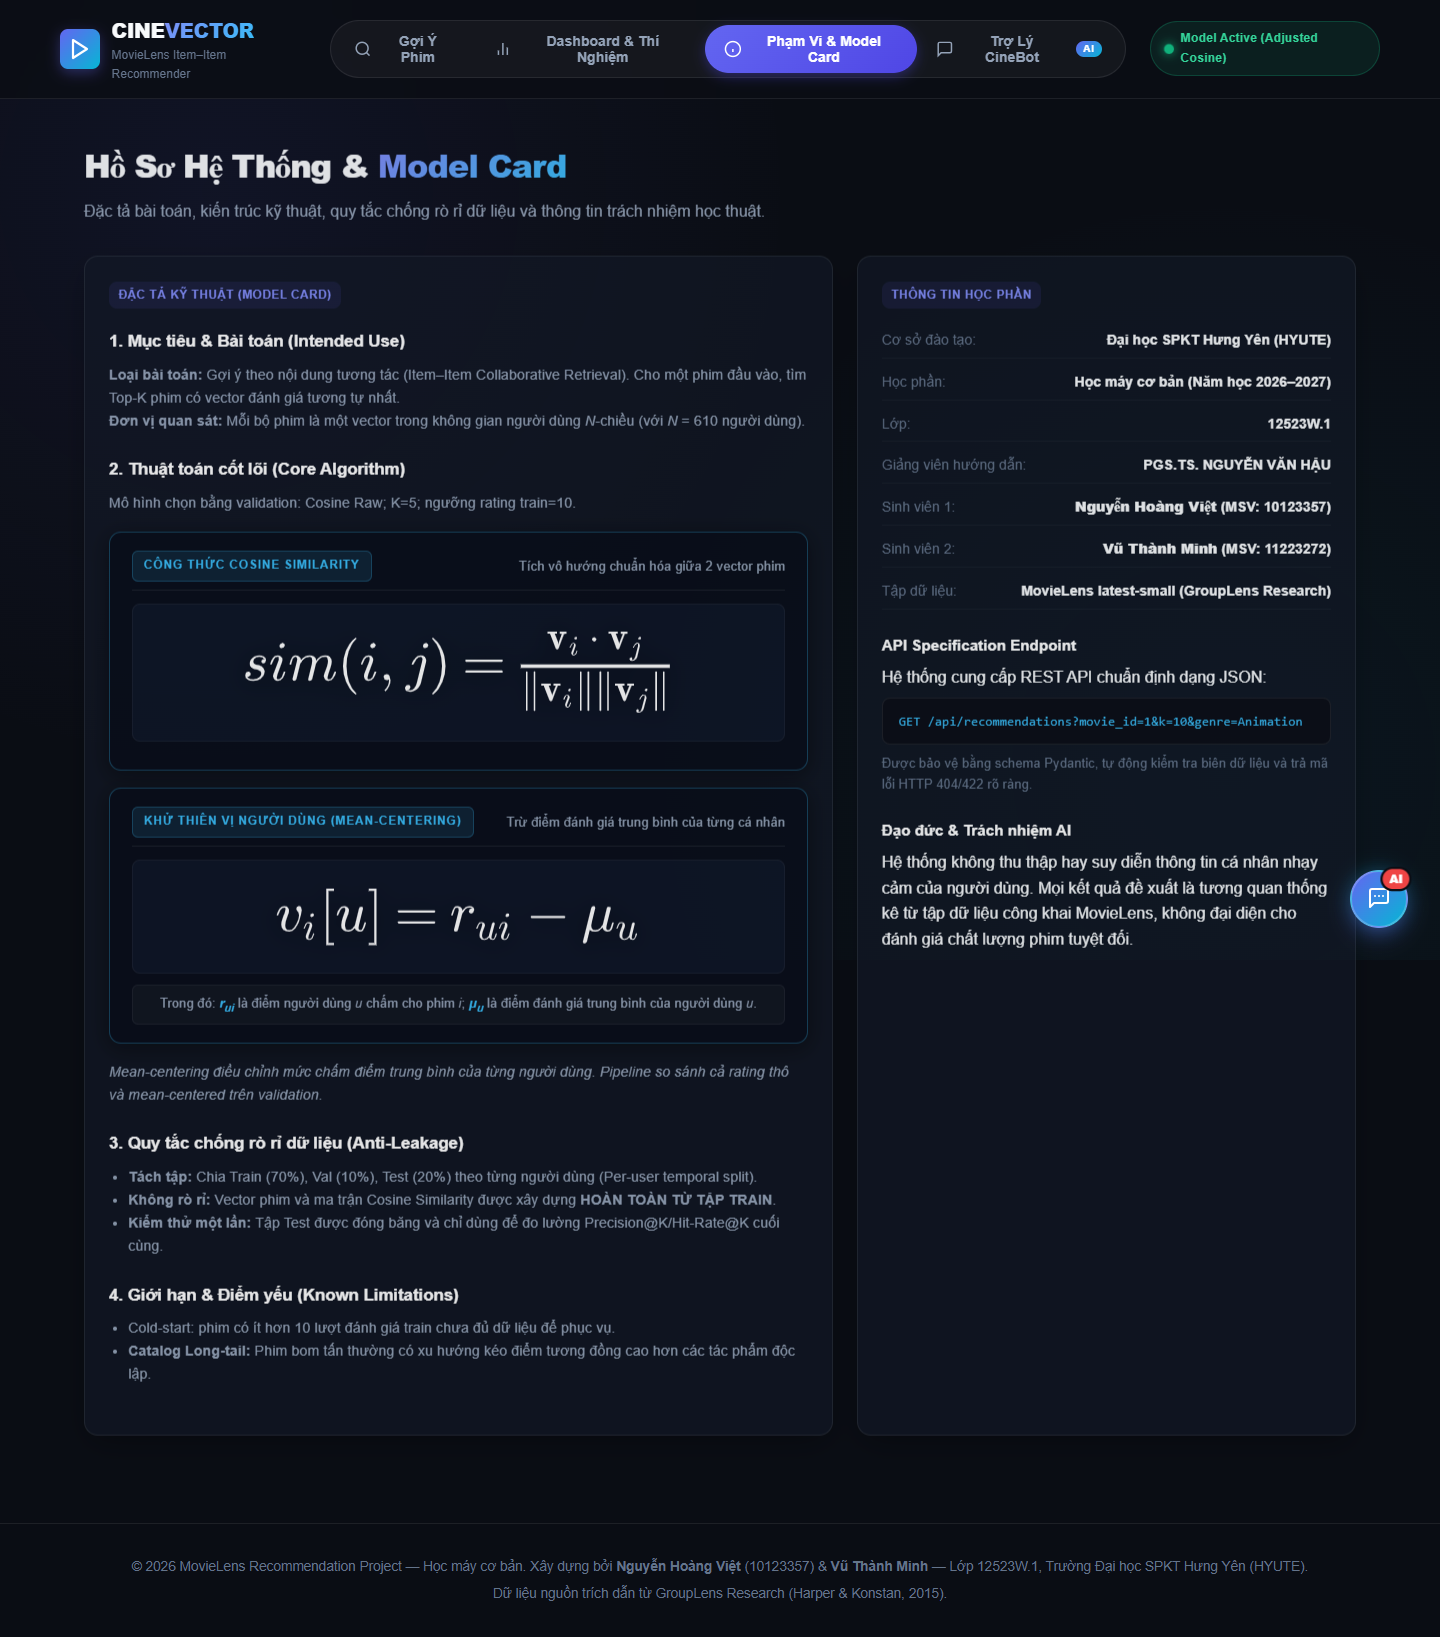
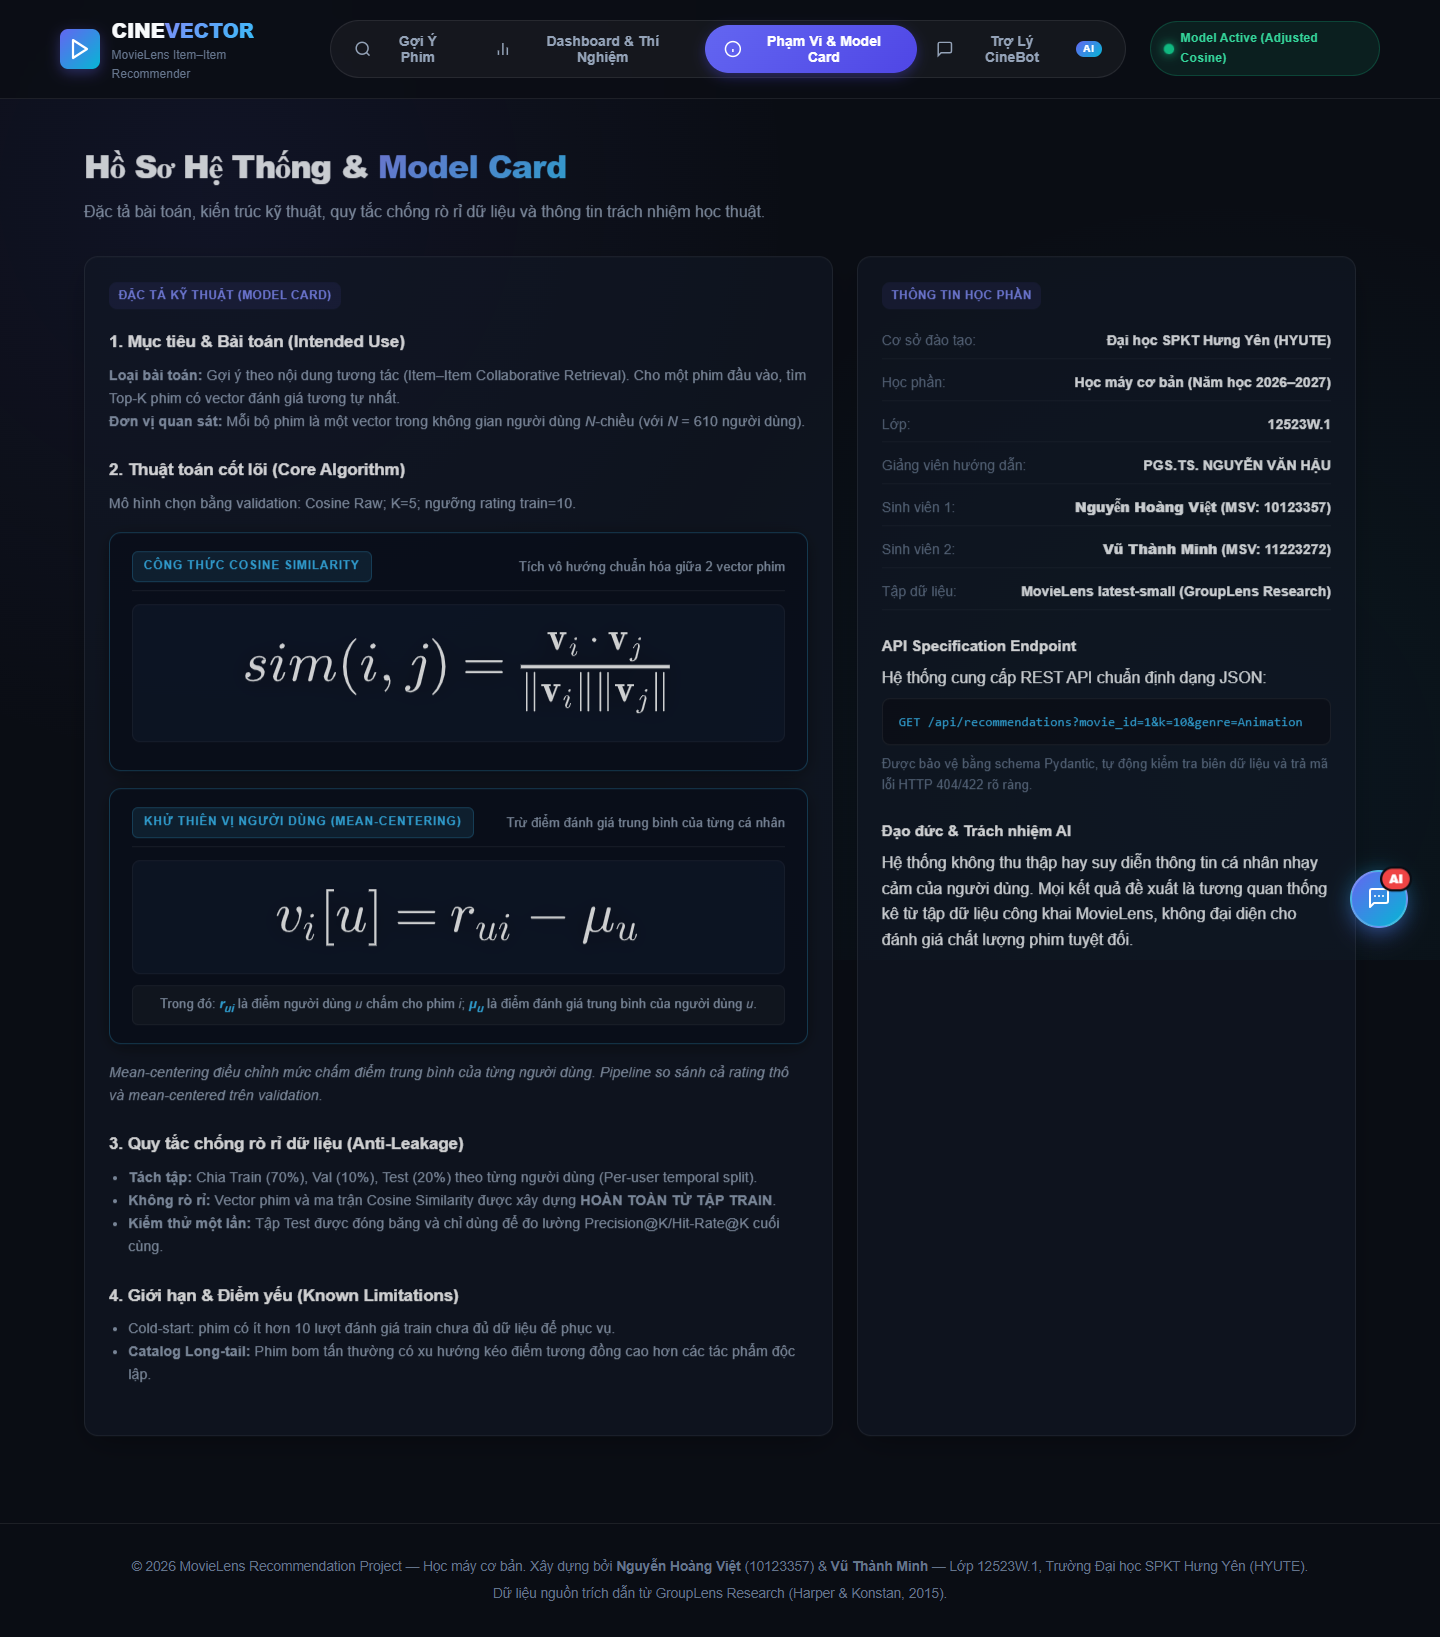
feat: add movie details dialog and validate recommendation count

diff --git a/app/static/js/app.js b/app/static/js/app.js
@@ -15,6 +15,15 @@ document.addEventListener("DOMContentLoaded", () => {
   const searchSpinner = document.getElementById("search-spinner");
   const genreFilter = document.getElementById("filter-genre");
   const kSelect = document.getElementById("select-k");
+  const kError = document.getElementById("k-error");
+  function readK() {
+    const k = kSelect.valueAsNumber;
+    const valid = kSelect.checkValidity() && Number.isInteger(k) && k >= 1 && k <= 50;
+    kSelect.setAttribute("aria-invalid", String(!valid));
+    kError.textContent = valid ? "" : "K phải là số nguyên từ 1 đến 50 phim; không được để trống.";
+    kError.classList.toggle("hidden", valid);
+    return valid ? k : null;
+  }
   const yearMin = document.getElementById("year-min");
   const yearMax = document.getElementById("year-max");
 
@@ -74,6 +83,63 @@ document.addEventListener("DOMContentLoaded", () => {
 
   let selectedMovieId = null;
   let searchDebounceTimeout = null;
+  const detailDialog = document.getElementById("movie-detail-dialog");
+  const detailTitle = document.getElementById("movie-detail-title");
+  const detailStatus = document.getElementById("movie-detail-status");
+  const detailFields = document.getElementById("movie-detail-fields");
+  const detailWarning = document.getElementById("movie-detail-warning");
+  const detailRecommend = document.getElementById("movie-detail-recommend");
+  let detailMovie = null;
+  let detailRequest = 0;
+
+  async function openMovieDetails(movieId) {
+    const requestId = ++detailRequest;
+    detailMovie = null;
+    detailTitle.textContent = "Chi tiết phim";
+    detailStatus.textContent = "Đang tải thông tin phim...";
+    detailFields.classList.add("hidden");
+    detailWarning.classList.add("hidden");
+    detailRecommend.disabled = true;
+    if (!detailDialog.open) detailDialog.showModal();
+    try {
+      const response = await apiFetch(`${API_BASE}/api/movies/${movieId}`);
+      const movie = await response.json();
+      if (requestId !== detailRequest || !detailDialog.open) return;
+      detailMovie = movie;
+      detailTitle.textContent = movie.title;
+      detailStatus.textContent = "Thông tin phim và thống kê đánh giá từ tập train.";
+      document.getElementById("movie-detail-id").textContent = movie.movieId;
+      document.getElementById("movie-detail-year").textContent = movie.year ?? "Chưa rõ năm";
+      document.getElementById("movie-detail-genres").textContent = movie.genres.replaceAll("|", ", ");
+      document.getElementById("movie-detail-count").textContent = `${movie.rating_count.toLocaleString()} lượt`;
+      document.getElementById("movie-detail-rating").textContent = movie.rating_count ? `${movie.rating_mean.toFixed(2)} / 5.0 sao` : "Chưa có đánh giá train";
+      detailFields.classList.remove("hidden");
+      detailWarning.textContent = movie.warning || "";
+      detailWarning.classList.toggle("hidden", !movie.warning);
+      detailRecommend.disabled = !movie.can_recommend;
+    } catch (error) {
+      if (requestId === detailRequest && detailDialog.open) detailStatus.textContent = error.message;
+    }
+  }
+  document.getElementById("movie-detail-close").addEventListener("click", () => detailDialog.close());
+  detailDialog.addEventListener("close", () => { ++detailRequest; detailMovie = null; });
+  detailDialog.addEventListener("click", (event) => {
+    const bounds = detailDialog.getBoundingClientRect();
+    if (event.target === detailDialog && (event.clientX < bounds.left || event.clientX > bounds.right || event.clientY < bounds.top || event.clientY > bounds.bottom)) detailDialog.close();
+  });
+  detailRecommend.addEventListener("click", () => {
+    if (!detailMovie) return;
+    const movie = detailMovie;
+    detailDialog.close();
+    selectedMovieId = movie.movieId;
+    searchInput.value = movie.title;
+    executeRecommendation(movie.movieId);
+  });
+  seedTitle.addEventListener("click", () => { if (selectedMovieId) openMovieDetails(selectedMovieId); });
+  document.addEventListener("click", (event) => {
+    const button = event.target.closest("[data-movie-detail]");
+    if (button) openMovieDetails(Number(button.dataset.movieDetail));
+  });
 
   async function loadEvaluation() {
     const body = document.getElementById("comparison-table-body");
@@ -183,6 +249,7 @@ document.addEventListener("DOMContentLoaded", () => {
           searchInput.value = title;
           autocompleteList.classList.add("hidden");
           executeRecommendation(selectedMovieId);
+          openMovieDetails(id);
         }
       });
     });
@@ -421,6 +488,7 @@ document.addEventListener("DOMContentLoaded", () => {
 
   // ==================== TÌM KIẾM & LÀM MỚI ====================
   async function handleSearchAction() {
+    if (readK() === null) return;
     if (selectedMovieId) {
       await executeRecommendation(selectedMovieId);
       return;
@@ -496,6 +564,7 @@ document.addEventListener("DOMContentLoaded", () => {
   });
 
   if (kSelect) {
+    kSelect.addEventListener("input", readK);
     kSelect.addEventListener("change", () => {
       if (selectedMovieId) executeRecommendation(selectedMovieId);
     });
@@ -503,7 +572,8 @@ document.addEventListener("DOMContentLoaded", () => {
 
   // ==================== THỰC THI GỢI Ý (COSINE + FILTER) ====================
   async function executeRecommendation(movieId) {
-    const k = parseInt(kSelect?.value) || 10;
+    const k = readK();
+    if (k === null) return;
     
     // Hiển thị trạng thái đang tải
     recsGrid.innerHTML = `
@@ -605,7 +675,7 @@ document.addEventListener("DOMContentLoaded", () => {
                 <span class="rec-score-lbl">Cosine Sim</span>
               </div>
             </div>
-            <h4 class="rec-title">${escapeHtml(item.title)}</h4>
+            <h4 class="rec-title"><button type="button" class="movie-detail-link" data-movie-detail="${item.movieId}" title="Xem chi tiết phim">${escapeHtml(item.title)}</button></h4>
             <div class="rec-genres">${genresHtml}</div>
             
             <div class="sim-bar-container" title="Độ tương đồng: ${simPercent}%">
@@ -777,7 +847,7 @@ document.addEventListener("DOMContentLoaded", () => {
       recsHtml = `<div class="chat-movie-cards">` + recommendations.map(rec => `
         <div class="chat-movie-item">
           <div class="chat-movie-top">
-            <span class="chat-movie-title">${escapeHtml(rec.title)}</span>
+            <button type="button" class="chat-movie-title movie-detail-link" data-movie-detail="${rec.movieId}">${escapeHtml(rec.title)}</button>
             <span class="chat-similarity-badge">${typeof rec.similarity_score === 'number' ? (rec.similarity_score * 100).toFixed(1) + '%' : rec.similarity_score}</span>
           </div>
           <div class="chat-movie-genres">${escapeHtml(rec.genres)}</div>

diff --git a/app/templates/index.html b/app/templates/index.html
@@ -206,13 +206,10 @@
             <input id="year-max" type="number" min="1870" max="2100" placeholder="Bất kỳ">
           </div>
           <div class="control-item k-select-wrap">
-            <label for="select-k">Số lượng (K):</label>
-            <select id="select-k">
-              <option value="5">Top 5</option>
-              <option value="10" selected>Top 10 (Mặc định)</option>
-              <option value="15">Top 15</option>
-              <option value="20">Top 20</option>
-            </select>
+            <label for="select-k">Số phim gợi ý K (1–50):</label>
+            <input id="select-k" type="number" min="1" max="50" step="1" required value="10" aria-describedby="k-help k-error">
+            <small id="k-help">Nhập số nguyên từ 1 đến 50 phim.</small>
+            <small id="k-error" role="alert" class="input-error hidden"></small>
           </div>
 
           <!-- Hidden select for compatibility -->
@@ -346,7 +343,7 @@
         <div class="seed-badge">Phim Gốc Được Chọn</div>
         <div class="seed-content">
           <div class="seed-main-info">
-            <h2 id="seed-title" class="seed-title">...</h2>
+            <h2 class="seed-title"><button type="button" id="seed-title" class="movie-detail-link" title="Xem chi tiết phim">...</button></h2>
             <div id="seed-genres" class="seed-genres">...</div>
           </div>
           <div class="seed-stats">
@@ -615,6 +612,24 @@
     </section>
 
   </main>
+
+  <dialog id="movie-detail-dialog" aria-labelledby="movie-detail-title" aria-describedby="movie-detail-status">
+    <div class="movie-detail-header">
+      <h2 id="movie-detail-title">Chi tiết phim</h2>
+      <button type="button" id="movie-detail-close" class="btn-secondary" aria-label="Đóng chi tiết phim">Đóng ×</button>
+    </div>
+    <p id="movie-detail-status" role="status">Đang tải...</p>
+    <dl id="movie-detail-fields" class="movie-detail-fields hidden">
+      <dt>Mã phim</dt><dd id="movie-detail-id"></dd>
+      <dt>Năm phát hành</dt><dd id="movie-detail-year"></dd>
+      <dt>Thể loại</dt><dd id="movie-detail-genres"></dd>
+      <dt>Số lượt đánh giá trong train</dt><dd id="movie-detail-count"></dd>
+      <dt>Rating trung bình (0.5–5.0 sao)</dt><dd id="movie-detail-rating"></dd>
+    </dl>
+    <p id="movie-detail-warning" class="warning-alert hidden"></p>
+    <p>Thống kê từ lịch sử đánh giá; không phải kết luận tuyệt đối về chất lượng phim.</p>
+    <button type="button" id="movie-detail-recommend" class="btn-primary" disabled>Gợi ý từ phim này</button>
+  </dialog>
 
   <footer class="footer">
     <div class="footer-content">

diff --git a/app/static/css/style.css b/app/static/css/style.css
@@ -2077,3 +2077,17 @@ body {
 /* Release-year range follows the same filters in search and recommendations. */
 .year-filter { display: flex; flex-wrap: wrap; gap: .5rem; align-items: center; }
 .year-filter input { width: 6rem; padding: .55rem; border: 1px solid #64748b; border-radius: .5rem; background: #0f172a; color: #fff; }
+.k-select-wrap { flex-wrap: wrap; }
+.k-select-wrap input { width: 5rem; padding: .55rem; border: 1px solid #64748b; border-radius: .5rem; background: #0f172a; color: #fff; }
+.k-select-wrap small { flex-basis: 100%; }
+.input-error { color: #fca5a5; }
+#select-k[aria-invalid="true"] { border-color: #f87171; }
+.movie-detail-link { border: 0; padding: 0; background: none; color: inherit; font: inherit; text-align: left; cursor: pointer; text-decoration: underline; text-underline-offset: .2em; }
+.movie-detail-link:focus-visible { outline: 2px solid #38bdf8; outline-offset: 4px; }
+#movie-detail-dialog { width: min(640px, calc(100vw - 32px)); max-height: calc(100dvh - 32px); box-sizing: border-box; overflow: auto; padding: 1.5rem; border: 1px solid #64748b; border-radius: 1rem; background: #0f172a; color: #e2e8f0; }
+#movie-detail-dialog::backdrop { background: rgb(0 0 0 / 70%); }
+.movie-detail-header { display: flex; align-items: flex-start; justify-content: space-between; gap: 1rem; }
+.movie-detail-header h2 { margin: 0; overflow-wrap: anywhere; }
+.movie-detail-fields { display: grid; grid-template-columns: minmax(0, 1fr) minmax(0, 1fr); gap: .8rem; }
+.movie-detail-fields dd { margin: 0; overflow-wrap: anywhere; }
+#movie-detail-dialog p { margin-block: 1rem; }

diff --git a/scripts/browser_smoke.py b/scripts/browser_smoke.py
@@ -46,6 +46,41 @@ try:
         page.locator('.seed-chip[data-id="1"]').click()
         expect(page.locator("#seed-title")).to_contain_text("Toy Story")
         expect(page.locator(".rec-card").first).to_be_visible()
+        # Movie details: title click, focus restoration and recommendation action.
+        first_title = page.locator(".rec-title .movie-detail-link").first
+        expected_title = first_title.inner_text()
+        first_title.click()
+        expect(page.locator("#movie-detail-dialog")).to_be_visible()
+        expect(page.locator("#movie-detail-title")).to_have_text(expected_title)
+        expect(page.locator("#movie-detail-year")).not_to_have_text("")
+        expect(page.locator("#movie-detail-rating")).to_contain_text("/ 5.0 sao")
+        if args.screenshots:
+            page.screenshot(path=str(root / "reports/figures/movie_detail_modal.png"))
+        page.keyboard.press("Escape")
+        expect(page.locator("#movie-detail-dialog")).not_to_be_visible()
+        expect(first_title).to_be_focused()
+        page.locator("#seed-title").click()
+        expect(page.locator("#movie-detail-title")).to_contain_text("Toy Story")
+        page.locator("#movie-detail-recommend").click()
+        expect(page.locator("#movie-detail-dialog")).not_to_be_visible()
+        # Full K domain is accepted; empty/fractional/out-of-range input never sends a request.
+        k_input = page.locator("#select-k")
+        for k in (1, 50):
+            k_input.fill(str(k))
+            with page.expect_response(lambda response: "/api/recommendations?" in response.url and f"k={k}&" in response.url or "/api/recommendations?" in response.url and response.url.endswith(f"k={k}")) as pending_k:
+                page.locator("#btn-search-recommend").click()
+            assert pending_k.value.status == 200 and pending_k.value.json()["k"] == k
+        sent = []
+        page.on("request", lambda request: sent.append(request.url) if "/api/recommendations?" in request.url else None)
+        for value in ("", "0", "51", "1.5"):
+            count_before = len(sent)
+            k_input.fill(value)
+            page.locator("#btn-search-recommend").click()
+            expect(page.locator("#k-error")).to_be_visible()
+            expect(k_input).to_have_value(value)
+            assert len(sent) == count_before
+        k_input.fill("10")
+        expect(page.locator("#k-error")).not_to_be_visible()
         page.locator("#year-min").fill("1990")
         page.locator("#year-max").fill("2010")
         with page.expect_response(lambda response: "/api/recommendations?" in response.url and "year_min=1990" in response.url) as pending:
@@ -62,6 +97,10 @@ try:
         page.locator(f'.autocomplete-item[data-id="{cold["movieId"]}"]').click()
         expect(page.locator("#seed-warning-box")).to_be_visible()
         expect(page.locator("#seed-warning-msg")).not_to_have_text("")
+        expect(page.locator("#movie-detail-dialog")).to_be_visible()
+        expect(page.locator("#movie-detail-warning")).to_be_visible()
+        expect(page.locator("#movie-detail-recommend")).to_be_disabled()
+        page.locator("#movie-detail-close").click()
         page.locator('[data-tab="tab-dashboard"]').click()
         expect(page.locator("#comparison-table-body tr")).to_have_count(3)
         expect(page.locator("#failure-table-body tr")).to_have_count(10)
@@ -75,9 +114,14 @@ try:
         page.set_viewport_size({"width": 390, "height": 844})
         page.locator('[data-tab="tab-recommender"]').click()
         expect(page.locator("#year-min")).to_be_visible()
+        page.locator("#seed-title").click()
+        expect(page.locator("#movie-detail-dialog")).to_be_visible()
+        bounds = page.locator("#movie-detail-dialog").bounding_box()
+        assert bounds["x"] >= 0 and bounds["x"] + bounds["width"] <= 390
+        page.locator("#movie-detail-close").click()
         assert not errors, errors
         browser.close()
-    print("Browser passed: search/selection, year filters/errors, cold-start warning, real dashboard, model card and mobile controls.")
+    print("Browser passed: movie details/actions/focus, K 1-50/errors, search, years, cold-start, dashboard and mobile dialog.")
 finally:
     server.terminate()
     try:

diff --git a/app/main.py b/app/main.py
@@ -283,6 +283,9 @@ async def get_movie_detail(movie_id: int = Path(..., ge=1)):
         raise HTTPException(status_code=404, detail=f"Không tìm thấy phim với ID {movie_id}")
     
     movie_info = match.iloc[0].to_dict()
+    import re
+    year = re.search(r"\((\d{4})\)\s*$", movie_info["title"])
+    movie_info["year"] = int(year.group(1)) if year else None
     # Thêm thống kê số rating nếu có
     if MODEL and movie_id in MODEL.movie_stats:
         stats = MODEL.movie_stats[movie_id]
@@ -292,6 +295,14 @@ async def get_movie_detail(movie_id: int = Path(..., ge=1)):
         movie_info["rating_count"] = 0
         movie_info["rating_mean"] = 0.0
         
+    movie_info["can_recommend"] = bool(MODEL and movie_id in MODEL.builder.movie2idx)
+    movie_info["warning"] = None
+    if MODEL is None:
+        movie_info["warning"] = "Mô hình gợi ý chưa sẵn sàng."
+    elif not movie_info["can_recommend"]:
+        movie_info["warning"] = f"Chỉ có {movie_info['rating_count']} lượt đánh giá train, dưới ngưỡng {MODEL.min_movie_ratings}; không đủ dữ liệu để gợi ý."
+    elif movie_info["rating_count"] < 10:
+        movie_info["warning"] = "Phim có ít đánh giá train; độ tin cậy của gợi ý có thể bị ảnh hưởng."
     return movie_info
 
 

diff --git a/tests/test_api.py b/tests/test_api.py
@@ -43,6 +43,22 @@ def test_cold_start_preserves_warning(client):
     assert data["status"] == "warning" and data["warning"] and data["recommendations"] == []
 
 
+def test_movie_details_include_year_statistics_and_availability(client):
+    movie = client.get("/api/movies/1").json()
+    assert movie["year"] == 1995 and movie["rating_count"] == 2
+    assert movie["rating_mean"] == 4.5 and movie["can_recommend"]
+    cold = client.get("/api/movies/4").json()
+    assert cold["year"] == 2002 and not cold["can_recommend"] and cold["warning"]
+
+
+def test_movie_details_handle_unknown_year_and_missing_model(client, monkeypatch):
+    serving.MOVIES_DF.loc[serving.MOVIES_DF.movieId == 1, "title"] = "Unknown year"
+    monkeypatch.setattr(serving, "MODEL", None)
+    movie = client.get("/api/movies/1").json()
+    assert movie["year"] is None
+    assert not movie["can_recommend"] and movie["warning"]
+
+
 def test_unknown_movie_and_unavailable_assets(client, monkeypatch):
     assert client.get("/api/recommendations?movie_id=9999").status_code == 404
     assert client.get("/api/movies/9999").status_code == 404

diff --git a/README.md b/README.md
@@ -83,6 +83,10 @@ K: 1–50; movie_id: số nguyên dương; năm: 1870–2100 và từ <= đến.
 
 Dashboard và phạm vi/model card đọc model card đã lưu, không ghi cố định KPI. UI có tìm kiếm, chọn phim, Top-K, lọc nhiều thể loại/năm và cảnh báo. Tên phim nhập tự do không bị tự động thay bằng kết quả đầu tiên.
 
+Bấm tên phim ở card gợi ý, phim gốc hoặc chatbot để mở modal chi tiết; chọn kết quả tìm kiếm cũng mở modal. Modal hiển thị năm, thể loại, số rating train, rating trung bình với đơn vị, cảnh báo và nút gợi ý từ phim đó. Đóng bằng nút Đóng, Escape hoặc bấm nền; giữ focus bàn phím trong modal. Phim cold-start vẫn xem được chi tiết, nhưng nút gợi ý bị vô hiệu hóa và có lý do rõ ràng. API chi tiết trả thêm `year`, `can_recommend`, `warning`.
+
+K là ô số nguyên bắt buộc 1–50 phim, có nhãn miền giá trị và lỗi ngay bên cạnh. Bỏ trống, số lẻ hoặc ngoài miền bị chặn trước khi gửi request; không tự đổi sang giá trị mặc định.
+
 ## Hồ sơ bàn giao kỹ thuật
 
 - `data/README.md`, `data/processed/data_manifest.json`: nguồn/điều khoản/dictionary/checksum. Ngày tải gốc của dữ liệu có sẵn chưa biết được ghi rõ.
